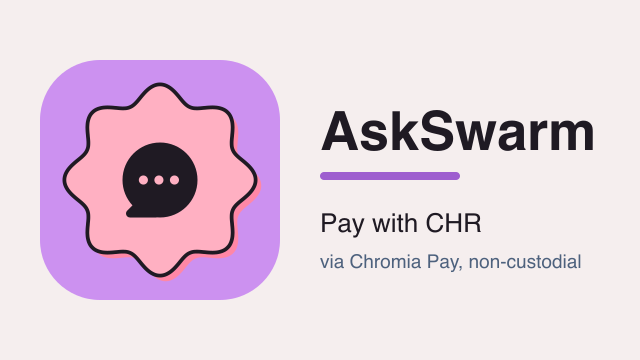
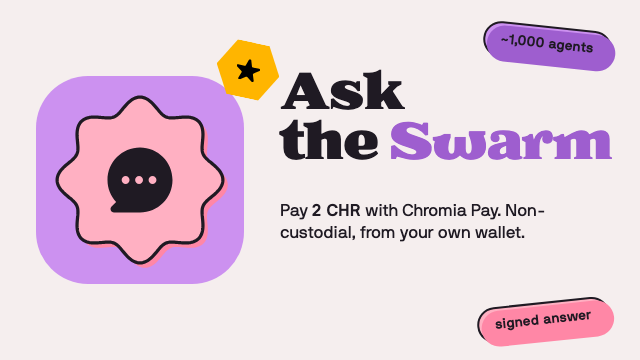
docs: brand Mini App cover

diff --git a/docs/brand/miniapp.html b/docs/brand/miniapp.html
@@ -1,0 +1,22 @@
+<!doctype html><html><head><meta charset="utf-8"><style>
+@font-face{font-family:"Battlefin";src:url("Battlefin-Black.otf")}
+@font-face{font-family:"NB International";src:url("NB_International_Regular_Webfont.ttf");font-weight:400}
+@font-face{font-family:"NB International";src:url("NB_International_Bold_Webfont.ttf");font-weight:700}
+*{box-sizing:border-box;margin:0}
+body{width:640px;height:360px;background:#F5EEEE;font-family:"NB International",Helvetica,sans-serif;color:#1F1A23;position:relative;overflow:hidden}
+.logo{position:absolute;left:36px;top:76px;width:208px;height:208px}
+h1{position:absolute;left:280px;top:70px;width:330px;font-family:Battlefin;font-size:54px;line-height:.92;letter-spacing:-.02em;white-space:nowrap}
+h1 span{color:#9E5ECF}
+.sub{position:absolute;left:280px;top:200px;font-size:17px;line-height:1.3;width:280px}
+.sub b{font-weight:700}
+.pill{position:absolute;display:flex;align-items:center;justify-content:center;border:2px solid #1F1A23;border-radius:999px;font-weight:700;font-size:14px;height:36px;padding:0 16px}
+.pill::after{content:"";position:absolute;inset:-2px;border-radius:999px;z-index:-1;transform:translate(4px,4px);background:var(--s)}
+.hex{position:absolute;width:64px;height:56px;clip-path:polygon(25% 0,75% 0,100% 50%,75% 100%,25% 100%,0 50%);background:#FFB500;display:grid;place-items:center}
+</style></head><body>
+<img class="logo" src="../logo.svg">
+<h1>Ask<br>the <span>Swarm</span></h1>
+<p class="sub">Pay <b>2 CHR</b> with Chromia Pay. Non-custodial, from your own wallet.</p>
+<div class="pill" style="right:28px;top:26px;background:#CC91F0;--s:#9E5ECF;transform:rotate(6deg)">~1,000 agents</div>
+<div class="pill" style="right:30px;bottom:22px;background:#FFB0C2;--s:#FF87A6;transform:rotate(-6deg)">signed answer</div>
+<div class="hex" style="left:216px;top:42px;transform:rotate(12deg)"><img src="star5.svg" style="width:24px"></div>
+</body></html>
